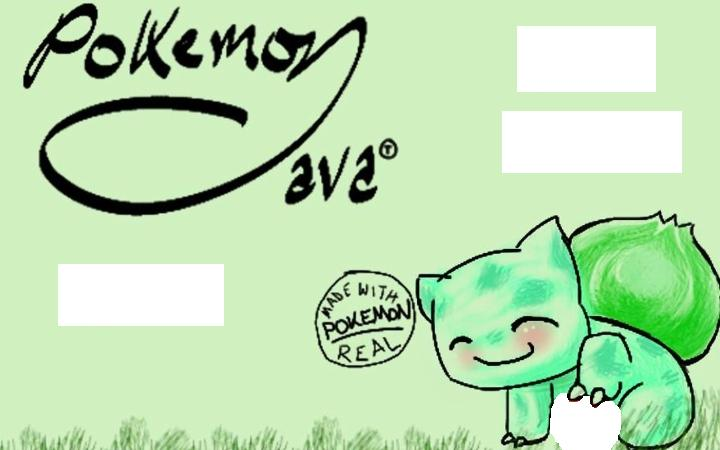
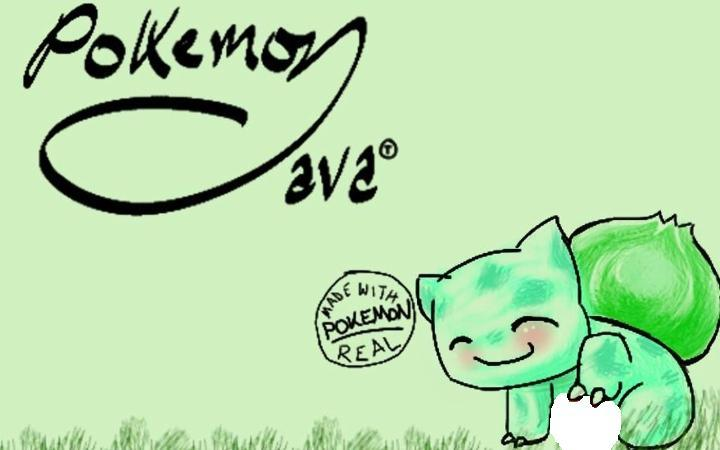
finalized home screen with buttons

Changed region(s): [[0.0611, 0.56, 0.3361, 0.7467], [0.6722, 0.2489, 0.9472, 0.4044], [0.7028, 0.0311, 0.9167, 0.2178]]

diff --git a/gui/src/HomePanel.java b/gui/src/HomePanel.java
@@ -29,7 +29,7 @@ public class HomePanel extends ImagePanel {
         // Set up general ImagePanel things.
         super( DEFAULT_BG );
         // General settings.
-//        setLayout( null );  // use absolute positioning
+        setLayout( null );  // use absolute positioning
         // Set preferred size to the dimensions of the background image.
         setPreferredSize( new Dimension( getBackgroundImg().getWidth(), getBackgroundImg().getHeight() ) );
         // Set image URLs to defaults.
@@ -50,30 +50,35 @@ public class HomePanel extends ImagePanel {
         labelImageURLs[START]  = "gui/images/pj_startButton.jpg";
         labelImageURLs[LOAD]   = "gui/images/pj_loadButton.jpg";
         labelImageURLs[CONFIG] = "gui/images/pj_configButton.jpg";
+        labelImageURLs[SECRET] = "gui/images/pj_secretButton.gif";
     }
 
     private void loadImages () {
-        labelImages[START]  = new ImageIcon( labelImageURLs[START] );
-        labelImages[LOAD]   = new ImageIcon( labelImageURLs[LOAD] );
+        labelImages[START]  = new ImageIcon( labelImageURLs[START]  );
+        labelImages[LOAD]   = new ImageIcon( labelImageURLs[LOAD]   );
         labelImages[CONFIG] = new ImageIcon( labelImageURLs[CONFIG] );
+        labelImages[SECRET] = new ImageIcon( labelImageURLs[SECRET] );
     }
 
     private void createLabels () {
-        labels[START]  = new JLabel( labelImages[START] );
-        labels[LOAD]   = new JLabel( labelImages[LOAD] );
+        labels[START]  = new JLabel( labelImages[START]  );
+        labels[LOAD]   = new JLabel( labelImages[LOAD]   );
         labels[CONFIG] = new JLabel( labelImages[CONFIG] );
+        labels[SECRET] = new JLabel( labelImages[SECRET] );
     }
 
     private void positionLabels () {
         labels[START].setBounds (  58, 264, labelImages[START].getIconWidth(),  labelImages[START].getIconHeight()  );
         labels[LOAD].setBounds  ( 517,  26, labelImages[LOAD].getIconWidth(),   labelImages[LOAD].getIconHeight()   );
         labels[CONFIG].setBounds( 502, 111, labelImages[CONFIG].getIconWidth(), labelImages[CONFIG].getIconHeight() );
+        labels[SECRET].setBounds( 550, 393, labelImages[SECRET].getIconWidth(), labelImages[SECRET].getIconHeight() );
     }
 
     private void addLabels () {
         add( labels[START] );
         add( labels[LOAD] );
         add( labels[CONFIG] );
+        add( labels[SECRET] );
     }
 
     public void activateListeners () {
